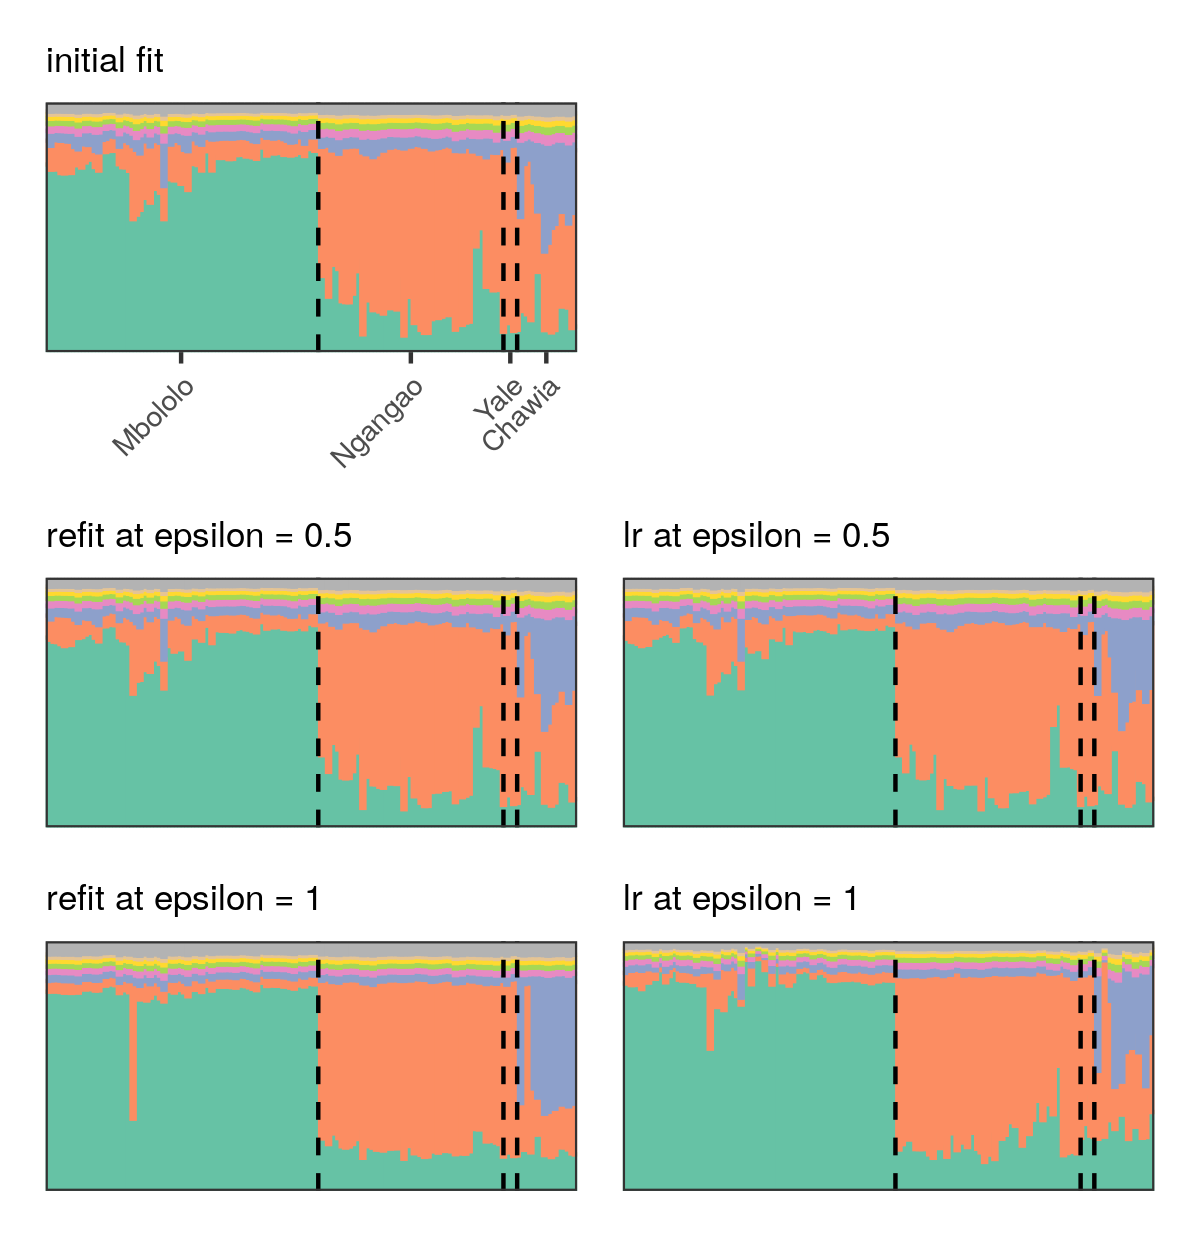
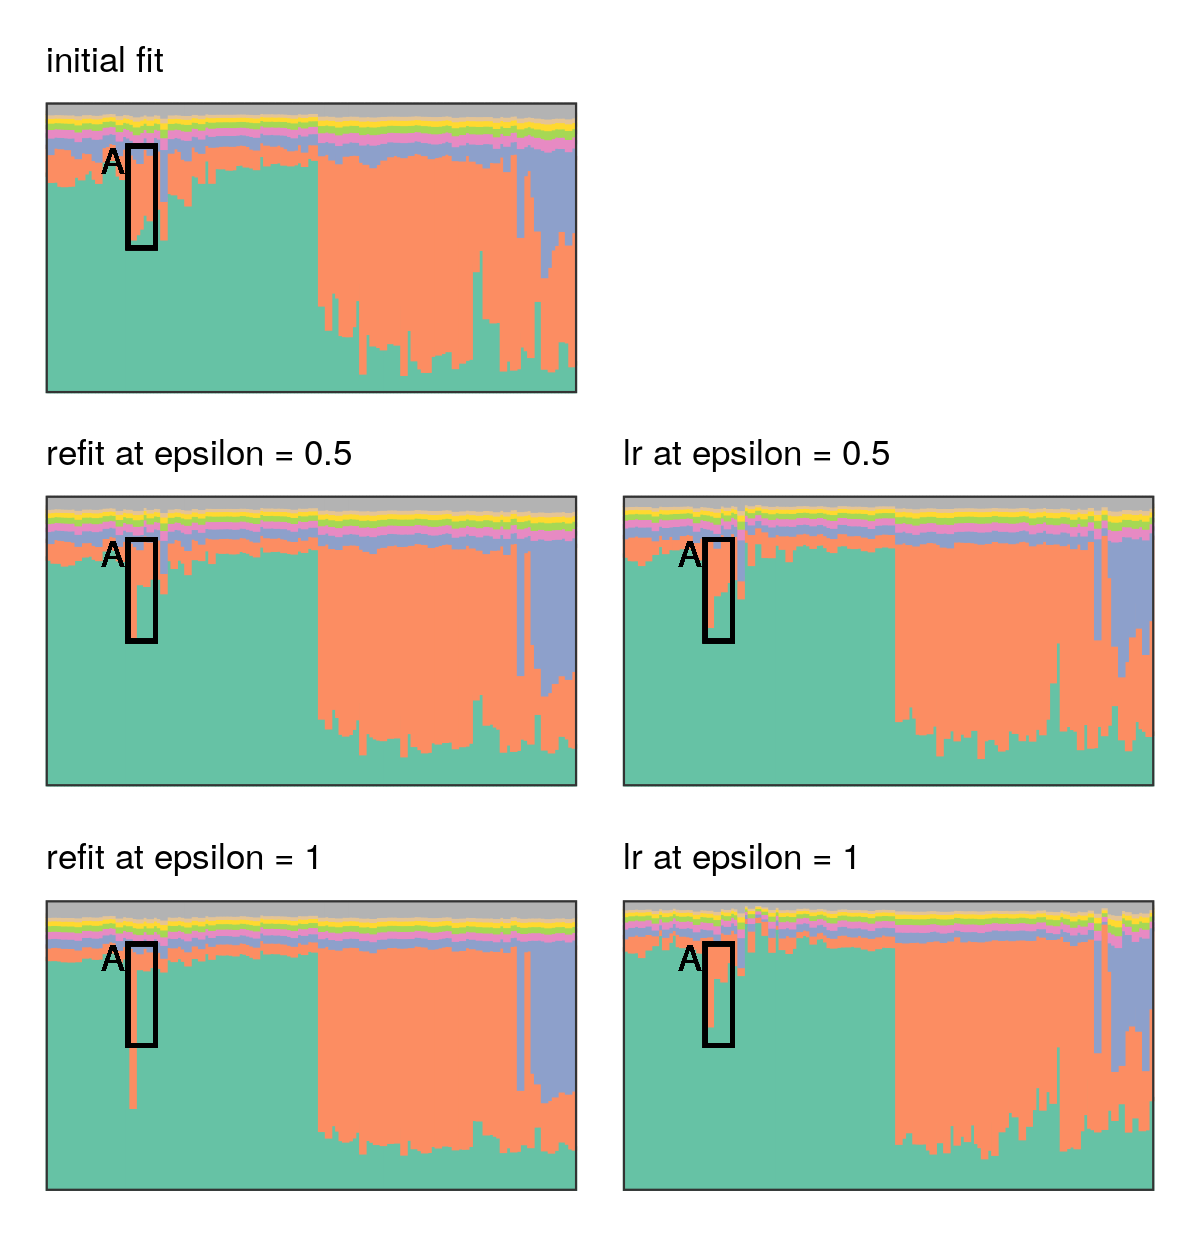
structure figures; minor tweaks

Changed region(s): [[0.0308, 0.0938, 0.9867, 0.9688]]

diff --git a/writing/journal_paper/structure_experiments.tex b/writing/journal_paper/structure_experiments.tex
@@ -57,10 +57,10 @@
 
 }
 
-\caption[The expected number of loci per cluster as $\alpha$ varies]{The expected number of loci per cluster as $\alpha$ varies. 
+\caption{The expected number of loci per cluster as $\alpha$ varies. 
      We compute the linear approximation at $\alpha = 3$. 
      The horizontal blue line corresponds to the threshold in computing the 
-    expected number of thresholded clusters in Figure REF }\label{fig:stru_alpha_cluster_weights}
+    expected number of thresholded clusters in Figure~\ref{fig:stru_alpha_nclusters} }\label{fig:stru_alpha_cluster_weights}
 \end{figure}
 
 
@@ -76,14 +76,15 @@
 }
 
 \caption[Sensitivity of inferred admixtures for several outlying individuals]{Sensitivity of inferred admixtures for several outlying individuals. 
-     For individual A from the Mbololo region, 
-     we examine the sensitivity of the inferred mixture proportion of the purple
+     For individuals A, 
+     we examine the sensitivity of the inferred mixture proportion of the orange
      population.
-    For four individuals from the Ngangao region (B), we examine the inferred green proportion.
-    For the all individuals from the Chawia region (C), we examine the inferred purple proportion.
-    (Left column) The worst-case $L_\infty$ negative perturbation in grey, 
-    plotted against the 
-    prior-weighted influence function (scaled to have $L_\infty$ norm equal to 1). 
+     For individuals B, 
+     we examine the inferred green proportion.
+     For the individuals C, we examine the inferred purple proportion.
+     (Left column) The worst-case $L_\infty$ negative perturbation in grey,
+     plotted against the prior-weighted influence function
+     (scaled to have $L_\infty$ norm equal to 1). 
     (Middle column) The effect of this perturbation on the prior density. 
     (Right column) Effects on the inferred admixture. }\label{fig:stru_func_sens}
 \end{figure}
@@ -99,7 +100,8 @@
 
 }
 
-\caption[admixtures ]{admixtures }\label{fig:stru_func_sens_admix}
+\caption{Inferred admixtures after the worst-case prior perturbation 
+     to individuals A (second row, Figure~\ref{fig:stru_func_sens}). }\label{fig:stru_func_sens_admix}
 \end{figure}
 
 
